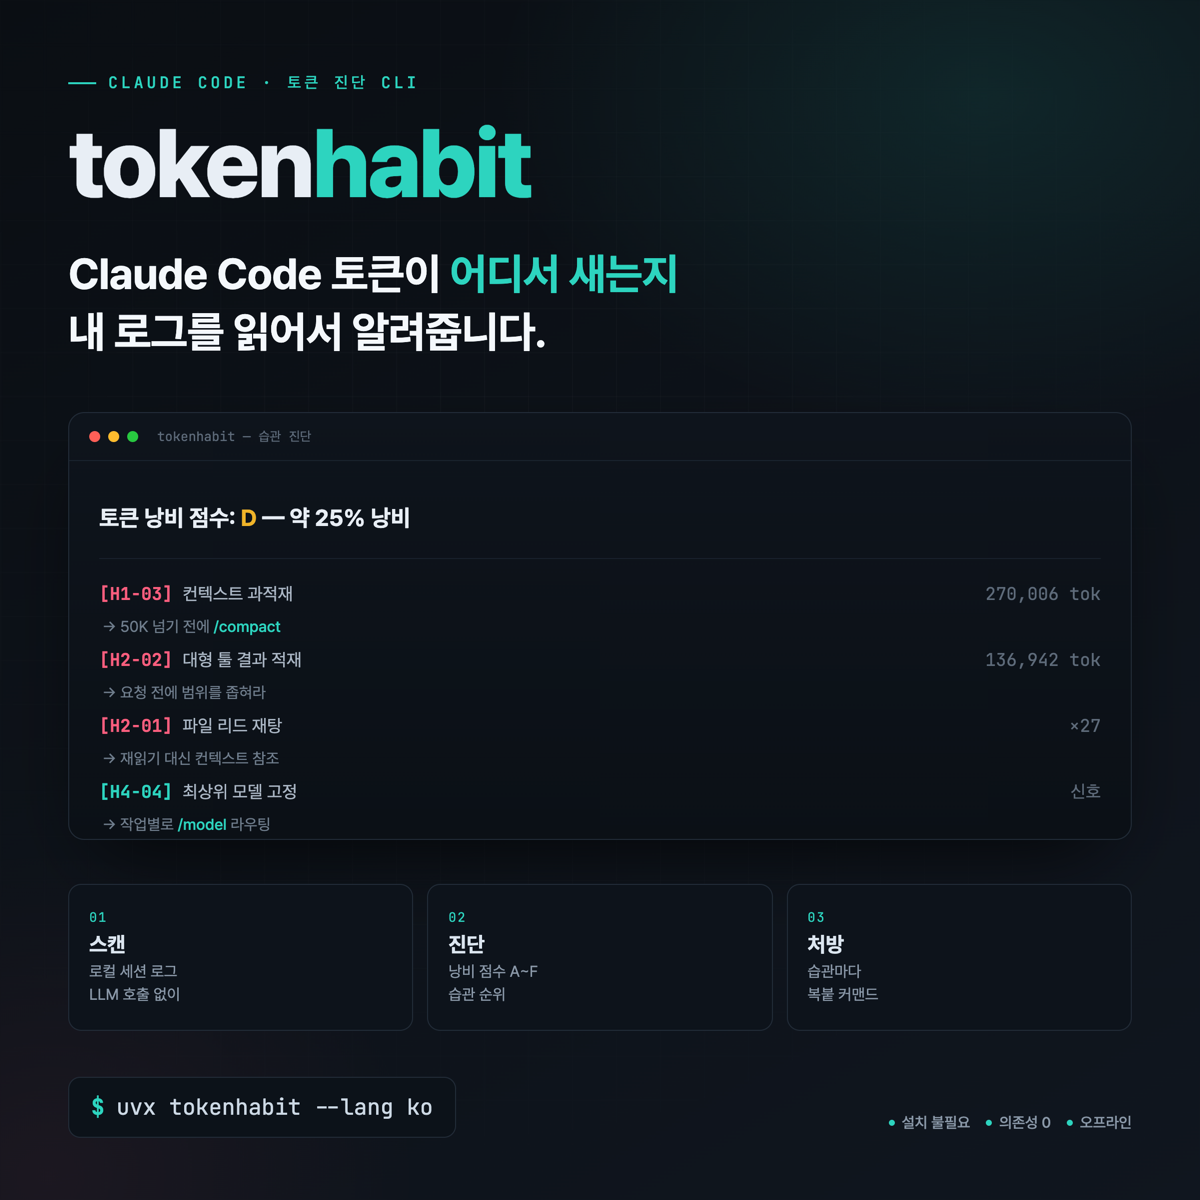
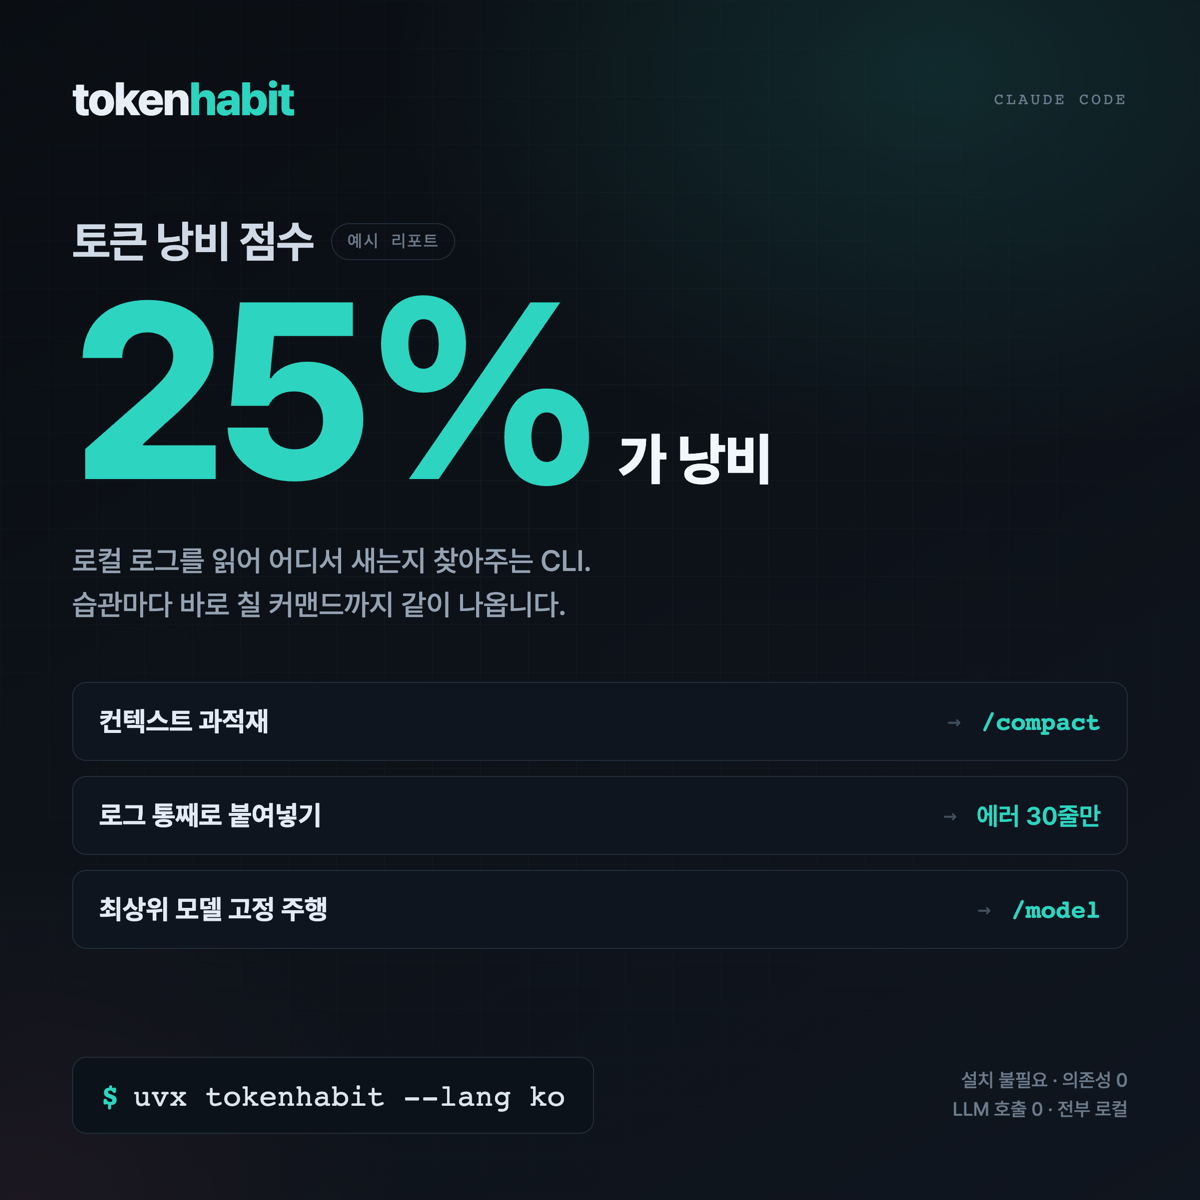
docs: 소셜 이미지 단순화 — 큰 수치 하나 + 습관 3줄
피드에서 1200px 이미지는 400~500px로 줄어든다. 이전 버전의 터미널
블록은 그 크기에서 글자가 뭉개졌고, 점수·습관 4개·fix 4개·단계 카드
3개까지 담아 1초 안에 읽히지 않았다.

한 메시지만 크게: 낭비 비율 하나 + 대표 습관 3줄 + 실행 커맨드.
정사각(피드)·와이드(GitHub 소셜 프리뷰) 디자인 통일.

수치는 '예시 리포트'로 명시 — 합성 데모 데이터에서 나온 값이라
1인칭 측정 주장으로 쓰지 않는다.

diff --git a/_workspace/07_thumbnail/social_ko_wide.html b/_workspace/07_thumbnail/social_ko_wide.html
@@ -6,107 +6,73 @@
 <link href="https://fonts.googleapis.com/css2?family=JetBrains+Mono:wght@400;500;700&display=swap" rel="stylesheet">
 <style>
   * { margin:0; padding:0; box-sizing:border-box; }
-  :root{ --cyan:#2dd4bf; --red:#fb5e7e; --amber:#f0b429; --bg0:#0a0e13; --bg1:#10161f; --bd:#222c38; --tx:#e8eef5; --mut:#8a98a8; }
+  :root{ --cyan:#2dd4bf; --red:#fb5e7e; --bg0:#0a0e13; --bg1:#10161f; --bd:#232e3b; --tx:#e8eef5; --mut:#94a2b2; }
   html,body{ width:1280px; height:640px; }
   body{
     font-family:'Pretendard',-apple-system,sans-serif;
     background:
-      radial-gradient(780px 480px at 82% 14%, rgba(45,212,191,.11), transparent 60%),
-      radial-gradient(600px 500px at 4% 96%, rgba(251,94,126,.06), transparent 55%),
+      radial-gradient(820px 520px at 76% 6%, rgba(45,212,191,.13), transparent 62%),
+      radial-gradient(620px 520px at 2% 100%, rgba(251,94,126,.06), transparent 55%),
       linear-gradient(150deg,var(--bg0),var(--bg1));
     color:var(--tx); overflow:hidden; position:relative;
   }
   .grid{ position:absolute; inset:0;
-    background-image:linear-gradient(rgba(255,255,255,.02) 1px,transparent 1px),linear-gradient(90deg,rgba(255,255,255,.02) 1px,transparent 1px);
-    background-size:40px 40px; mask-image:radial-gradient(900px 640px at 32% 42%,#000,transparent 82%); }
-  .wrap{ position:relative; height:100%; display:flex; gap:44px; padding:50px 58px 44px; }
-  .left{ flex:1.06; display:flex; flex-direction:column; }
+    background-image:linear-gradient(rgba(255,255,255,.022) 1px,transparent 1px),linear-gradient(90deg,rgba(255,255,255,.022) 1px,transparent 1px);
+    background-size:44px 44px; mask-image:radial-gradient(900px 640px at 36% 42%,#000,transparent 84%); }
+  .wrap{ position:relative; height:100%; display:flex; flex-direction:column; padding:48px 62px 44px; }
 
-  .kicker{ font-family:'JetBrains Mono',monospace; font-size:13.5px; letter-spacing:.2em; text-transform:uppercase; color:var(--cyan); font-weight:500; display:flex; align-items:center; gap:10px; }
-  .kicker::before{ content:""; width:24px; height:2px; background:var(--cyan); display:inline-block; }
-  .brand{ font-size:60px; font-weight:800; letter-spacing:-.035em; margin-top:18px; line-height:1; }
+  .top{ display:flex; align-items:center; justify-content:space-between; }
+  .brand{ font-size:38px; font-weight:800; letter-spacing:-.035em; line-height:1; }
   .brand .b{ color:var(--cyan); }
-  h1{ font-size:29px; font-weight:700; line-height:1.38; margin-top:20px; letter-spacing:-.012em; color:#f4f8fc; }
-  h1 em{ font-style:normal; color:var(--cyan); }
+  .kicker{ font-family:'JetBrains Mono',monospace; font-size:14px; letter-spacing:.16em; text-transform:uppercase; color:#6c7b8b; font-weight:500; }
 
-  .steps{ display:flex; gap:10px; margin-top:26px; }
-  .st{ flex:1; background:#0d131b; border:1px solid var(--bd); border-radius:11px; padding:13px 14px; }
-  .st .n{ font-family:'JetBrains Mono',monospace; font-size:11.5px; color:var(--cyan); letter-spacing:.1em; }
-  .st .t{ font-size:15px; font-weight:700; margin-top:5px; color:#dce6f0; }
-  .st .d{ font-size:12.5px; color:var(--mut); margin-top:3px; line-height:1.4; }
+  .mid{ margin-top:40px; display:flex; gap:52px; align-items:center; }
+  .hero{ flex:1.05; }
+  .hl{ font-size:29px; font-weight:700; letter-spacing:-.02em; color:#cfdae6; line-height:1.25; display:flex; align-items:center; gap:14px; }
+  .tagx{ font-family:'JetBrains Mono',monospace; font-size:13px; font-weight:500; letter-spacing:.08em; color:#6c7b8b; border:1px solid var(--bd); border-radius:999px; padding:5px 12px; }
+  .big{ display:flex; align-items:baseline; gap:16px; margin-top:4px; }
+  .big .n{ font-size:158px; font-weight:800; letter-spacing:-.05em; color:var(--cyan); line-height:.94; }
+  .big .t{ font-size:38px; font-weight:800; letter-spacing:-.02em; color:#f2f7fb; }
+  .lead{ font-size:20px; color:var(--mut); margin-top:22px; font-weight:500; line-height:1.5; }
 
-  .foot{ margin-top:auto; }
-  .cmd{ display:inline-flex; gap:11px; font-family:'JetBrains Mono',monospace; font-size:19px; background:#0c1219; border:1px solid var(--bd); border-radius:11px; padding:13px 19px; color:#cdd9e5; }
+  .chips{ flex:1; display:flex; flex-direction:column; gap:11px; }
+  .chip{ display:flex; align-items:center; gap:14px; background:#0e151e; border:1px solid var(--bd); border-radius:12px; padding:17px 20px; }
+  .chip .k{ font-size:19px; font-weight:700; color:#e2eaf3; }
+  .chip .ar{ font-family:'JetBrains Mono',monospace; font-size:16px; color:#41505f; margin-left:auto; }
+  .chip .v{ font-size:18px; font-weight:600; color:var(--cyan); font-family:'JetBrains Mono',monospace; }
+  .chip .v.ko{ font-family:'Pretendard',sans-serif; font-weight:600; }
+
+  .foot{ margin-top:auto; padding-top:34px; display:flex; align-items:center; justify-content:space-between; }
+  .cmd{ display:inline-flex; gap:11px; font-family:'JetBrains Mono',monospace; font-size:22px; background:#0c1219; border:1px solid var(--bd); border-radius:12px; padding:15px 21px; color:#dbe5ee; }
   .cmd .d{ color:var(--cyan); font-weight:700; }
-  .meta{ display:flex; gap:17px; margin-top:15px; font-size:13.5px; color:var(--mut); font-weight:500; }
-  .meta span{ display:flex; align-items:center; gap:6px; }
-  .dot{ width:5px; height:5px; border-radius:50%; background:var(--cyan); }
-
-  .term{ flex:1; align-self:center; background:linear-gradient(180deg,#0e141c,#0b1016); border:1px solid var(--bd); border-radius:15px; box-shadow:0 34px 74px -30px rgba(0,0,0,.78); overflow:hidden; }
-  .bar{ display:flex; gap:7px; padding:13px 16px; border-bottom:1px solid #1a232e; align-items:center; }
-  .bar i{ width:10px; height:10px; border-radius:50%; display:inline-block; }
-  .bar .t{ margin-left:10px; font-family:'JetBrains Mono',monospace; font-size:11.5px; color:#5e6b7a; }
-  .body{ padding:19px 21px; font-family:'JetBrains Mono',monospace; font-size:13px; line-height:1.85; }
-  .body .ko{ font-family:'Pretendard',sans-serif; }
-  .score{ font-size:16.5px; font-weight:700; }
-  .score .g{ color:var(--amber); }
-  .row{ color:#aab6c4; display:flex; align-items:baseline; gap:8px; }
-  .row .id{ color:var(--red); font-weight:700; }
-  .row.cy .id{ color:var(--cyan); }
-  .row .x{ color:#5e6b7a; margin-left:auto; }
-  .fix{ color:#6f7d8c; font-size:12px; padding-left:2px; }
-  .fix b{ color:var(--cyan); font-weight:500; }
-  .hr{ height:1px; background:#18212c; margin:11px 0; }
+  .meta{ font-size:15px; color:#6c7b8b; font-weight:500; text-align:right; line-height:1.5; }
 </style>
 </head>
 <body>
   <div class="grid"></div>
   <div class="wrap">
-    <div class="left">
-      <div class="kicker">Claude Code · 토큰 진단 CLI</div>
+    <div class="top">
       <div class="brand">token<span class="b">habit</span></div>
-      <h1>Claude Code 토큰이 <em>어디서 새는지</em><br>내 로그를 읽어서 알려줍니다.</h1>
+      <div class="kicker">Claude Code</div>
+    </div>
 
-      <div class="steps">
-        <div class="st">
-          <div class="n">01</div><div class="t">스캔</div>
-          <div class="d">로컬 세션 로그<br>LLM 호출 없이</div>
-        </div>
-        <div class="st">
-          <div class="n">02</div><div class="t">진단</div>
-          <div class="d">낭비 점수 A~F<br>습관 순위</div>
-        </div>
-        <div class="st">
-          <div class="n">03</div><div class="t">처방</div>
-          <div class="d">습관마다<br>복붙 커맨드</div>
-        </div>
+    <div class="mid">
+      <div class="hero">
+        <div class="hl">토큰 낭비 점수 <span class="tagx">예시 리포트</span></div>
+        <div class="big"><span class="n">25%</span><span class="t">가 낭비</span></div>
+        <div class="lead">로컬 로그를 읽어 어디서 새는지 찾아주는 CLI.<br>습관마다 바로 칠 커맨드까지 같이 나옵니다.</div>
       </div>
 
-      <div class="foot">
-        <div class="cmd"><span class="d">$</span> uvx tokenhabit --lang ko</div>
-        <div class="meta">
-          <span><i class="dot"></i>설치 불필요</span>
-          <span><i class="dot"></i>의존성 0</span>
-          <span><i class="dot"></i>오프라인</span>
-          <span><i class="dot"></i>MIT</span>
-        </div>
+      <div class="chips">
+        <div class="chip"><span class="k">컨텍스트 과적재</span><span class="ar">→</span><span class="v">/compact</span></div>
+        <div class="chip"><span class="k">로그 통째로 붙여넣기</span><span class="ar">→</span><span class="v ko">에러 30줄만</span></div>
+        <div class="chip"><span class="k">최상위 모델 고정 주행</span><span class="ar">→</span><span class="v">/model</span></div>
       </div>
     </div>
 
-    <div class="term">
-      <div class="bar"><i style="background:#ff5f57"></i><i style="background:#febc2e"></i><i style="background:#28c840"></i><span class="t">tokenhabit — 습관 진단</span></div>
-      <div class="body">
-        <div class="score ko">토큰 낭비 점수: <span class="g">D</span> — 약 25% 낭비</div>
-        <div class="hr"></div>
-        <div class="row"><span class="id">[H1-03]</span> <span class="ko">컨텍스트 과적재</span> <span class="x">270,006 tok</span></div>
-        <div class="fix ko">→ 50K 넘기 전에 <b>/compact</b></div>
-        <div class="row"><span class="id">[H2-02]</span> <span class="ko">대형 툴 결과 적재</span> <span class="x">136,942 tok</span></div>
-        <div class="fix ko">→ 요청 전에 범위를 좁혀라</div>
-        <div class="row"><span class="id">[H2-01]</span> <span class="ko">파일 리드 재탕</span> <span class="x">×27</span></div>
-        <div class="fix ko">→ 재읽기 대신 컨텍스트 참조</div>
-        <div class="row cy"><span class="id">[H4-04]</span> <span class="ko">최상위 모델 고정</span> <span class="x">신호</span></div>
-        <div class="fix ko">→ 작업별로 <b>/model</b> 라우팅</div>
-      </div>
+    <div class="foot">
+      <div class="cmd"><span class="d">$</span> uvx tokenhabit --lang ko</div>
+      <div class="meta">설치 불필요 · 의존성 0 · LLM 호출 0 · 전부 로컬</div>
     </div>
   </div>
 </body>

diff --git a/_workspace/07_thumbnail/social_ko.html b/_workspace/07_thumbnail/social_ko.html
@@ -6,94 +6,70 @@
 <link href="https://fonts.googleapis.com/css2?family=JetBrains+Mono:wght@400;500;700&display=swap" rel="stylesheet">
 <style>
   * { margin:0; padding:0; box-sizing:border-box; }
-  :root{ --cyan:#2dd4bf; --red:#fb5e7e; --amber:#f0b429; --bg0:#0a0e13; --bg1:#10161f; --bd:#222c38; --tx:#e8eef5; --mut:#8a98a8; }
+  :root{ --cyan:#2dd4bf; --red:#fb5e7e; --bg0:#0a0e13; --bg1:#10161f; --bd:#232e3b; --tx:#e8eef5; --mut:#94a2b2; }
   html,body{ width:1200px; height:1200px; }
   body{
     font-family:'Pretendard',-apple-system,sans-serif;
     background:
-      radial-gradient(820px 560px at 82% 8%, rgba(45,212,191,.11), transparent 60%),
-      radial-gradient(680px 600px at 4% 98%, rgba(251,94,126,.06), transparent 55%),
+      radial-gradient(880px 620px at 78% 6%, rgba(45,212,191,.13), transparent 62%),
+      radial-gradient(700px 620px at 2% 100%, rgba(251,94,126,.06), transparent 55%),
       linear-gradient(150deg,var(--bg0),var(--bg1));
     color:var(--tx); overflow:hidden; position:relative;
   }
   .grid{ position:absolute; inset:0;
-    background-image:linear-gradient(rgba(255,255,255,.02) 1px,transparent 1px),linear-gradient(90deg,rgba(255,255,255,.02) 1px,transparent 1px);
-    background-size:44px 44px; mask-image:radial-gradient(900px 900px at 40% 38%,#000,transparent 84%); }
-  .wrap{ position:relative; height:100%; display:flex; flex-direction:column; padding:72px 68px 62px; }
+    background-image:linear-gradient(rgba(255,255,255,.022) 1px,transparent 1px),linear-gradient(90deg,rgba(255,255,255,.022) 1px,transparent 1px);
+    background-size:48px 48px; mask-image:radial-gradient(900px 900px at 42% 40%,#000,transparent 84%); }
+  .wrap{ position:relative; height:100%; display:flex; flex-direction:column; padding:76px 72px 66px; }
 
-  .kicker{ font-family:'JetBrains Mono',monospace; font-size:16px; letter-spacing:.2em; text-transform:uppercase; color:var(--cyan); font-weight:500; display:flex; align-items:center; gap:12px; }
-  .kicker::before{ content:""; width:28px; height:2px; background:var(--cyan); display:inline-block; }
-  .brand{ font-size:96px; font-weight:800; letter-spacing:-.035em; margin-top:22px; line-height:1; }
+  .top{ display:flex; align-items:center; justify-content:space-between; }
+  .brand{ font-size:46px; font-weight:800; letter-spacing:-.035em; line-height:1; }
   .brand .b{ color:var(--cyan); }
-  h1{ font-size:43px; font-weight:700; line-height:1.36; margin-top:34px; letter-spacing:-.014em; color:#f4f8fc; }
-  h1 em{ font-style:normal; color:var(--cyan); }
+  .kicker{ font-family:'JetBrains Mono',monospace; font-size:16px; letter-spacing:.16em; text-transform:uppercase; color:#6c7b8b; font-weight:500; }
 
-  .term{ margin-top:50px; background:linear-gradient(180deg,#0e141c,#0b1016); border:1px solid var(--bd); border-radius:16px; box-shadow:0 36px 80px -32px rgba(0,0,0,.78); overflow:hidden; }
-  .bar{ display:flex; gap:8px; padding:15px 20px; border-bottom:1px solid #1a232e; align-items:center; }
-  .bar i{ width:11px; height:11px; border-radius:50%; display:inline-block; }
-  .bar .t{ margin-left:11px; font-family:'JetBrains Mono',monospace; font-size:13px; color:#5e6b7a; }
-  .body{ padding:34px 30px; font-family:'JetBrains Mono',monospace; font-size:17.5px; line-height:2.0; }
-  .body .ko{ font-family:'Pretendard',sans-serif; }
-  .score{ font-size:23px; font-weight:700; }
-  .score .g{ color:var(--amber); }
-  .row{ color:#aab6c4; display:flex; align-items:baseline; gap:10px; }
-  .row .id{ color:var(--red); font-weight:700; }
-  .row.cy .id{ color:var(--cyan); }
-  .row .x{ color:#5e6b7a; margin-left:auto; }
-  .fix{ color:#6f7d8c; font-size:15.5px; padding-left:3px; }
-  .fix b{ color:var(--cyan); font-weight:500; }
-  .hr{ height:1px; background:#18212c; margin:17px 0; }
+  .hero{ margin-top:92px; }
+  .hl{ font-size:44px; font-weight:700; letter-spacing:-.02em; color:#cfdae6; line-height:1.25; display:flex; align-items:center; gap:18px; }
+  .tagx{ font-family:'JetBrains Mono',monospace; font-size:17px; font-weight:500; letter-spacing:.08em; color:#6c7b8b; border:1px solid var(--bd); border-radius:999px; padding:7px 15px; }
+  .big{ display:flex; align-items:baseline; gap:22px; margin-top:6px; }
+  .big .n{ font-size:250px; font-weight:800; letter-spacing:-.05em; color:var(--cyan); line-height:.92; }
+  .big .t{ font-size:56px; font-weight:800; letter-spacing:-.02em; color:#f2f7fb; }
+  .lead{ font-size:29px; color:var(--mut); margin-top:34px; font-weight:500; line-height:1.5; }
 
-  .steps{ display:flex; gap:14px; margin-top:44px; }
-  .st{ flex:1; background:#0d131b; border:1px solid var(--bd); border-radius:13px; padding:24px 20px; }
-  .st .n{ font-family:'JetBrains Mono',monospace; font-size:13px; color:var(--cyan); letter-spacing:.1em; }
-  .st .t{ font-size:21px; font-weight:700; margin-top:6px; color:#dce6f0; }
-  .st .d{ font-size:15.5px; color:var(--mut); margin-top:4px; line-height:1.45; }
+  .chips{ margin-top:56px; display:flex; flex-direction:column; gap:15px; }
+  .chip{ display:flex; align-items:center; gap:20px; background:#0e151e; border:1px solid var(--bd); border-radius:14px; padding:22px 26px; }
+  .chip .k{ font-size:27px; font-weight:700; color:#e2eaf3; }
+  .chip .ar{ font-family:'JetBrains Mono',monospace; font-size:22px; color:#41505f; margin-left:auto; }
+  .chip .v{ font-size:25px; font-weight:600; color:var(--cyan); font-family:'JetBrains Mono',monospace; }
+  .chip .v.ko{ font-family:'Pretendard',sans-serif; font-weight:600; }
 
-  .foot{ margin-top:auto; padding-top:46px; display:flex; align-items:flex-end; justify-content:space-between; }
-  .cmd{ display:inline-flex; gap:12px; font-family:'JetBrains Mono',monospace; font-size:22px; background:#0c1219; border:1px solid var(--bd); border-radius:12px; padding:15px 22px; color:#cdd9e5; }
+  .foot{ margin-top:auto; padding-top:52px; display:flex; align-items:center; justify-content:space-between; }
+  .cmd{ display:inline-flex; gap:14px; font-family:'JetBrains Mono',monospace; font-size:30px; background:#0c1219; border:1px solid var(--bd); border-radius:14px; padding:20px 28px; color:#dbe5ee; }
   .cmd .d{ color:var(--cyan); font-weight:700; }
-  .meta{ display:flex; gap:16px; font-size:15px; color:var(--mut); font-weight:500; padding-bottom:6px; }
-  .meta span{ display:flex; align-items:center; gap:7px; }
-  .dot{ width:6px; height:6px; border-radius:50%; background:var(--cyan); }
+  .meta{ font-size:19px; color:#6c7b8b; font-weight:500; text-align:right; line-height:1.5; }
 </style>
 </head>
 <body>
   <div class="grid"></div>
   <div class="wrap">
-    <div class="kicker">Claude Code · 토큰 진단 CLI</div>
-    <div class="brand">token<span class="b">habit</span></div>
-    <h1>Claude Code 토큰이 <em>어디서 새는지</em><br>내 로그를 읽어서 알려줍니다.</h1>
-
-    <div class="term">
-      <div class="bar"><i style="background:#ff5f57"></i><i style="background:#febc2e"></i><i style="background:#28c840"></i><span class="t">tokenhabit — 습관 진단</span></div>
-      <div class="body">
-        <div class="score ko">토큰 낭비 점수: <span class="g">D</span> — 약 25% 낭비</div>
-        <div class="hr"></div>
-        <div class="row"><span class="id">[H1-03]</span> <span class="ko">컨텍스트 과적재</span> <span class="x">270,006 tok</span></div>
-        <div class="fix ko">→ 50K 넘기 전에 <b>/compact</b></div>
-        <div class="row"><span class="id">[H2-02]</span> <span class="ko">대형 툴 결과 적재</span> <span class="x">136,942 tok</span></div>
-        <div class="fix ko">→ 요청 전에 범위를 좁혀라</div>
-        <div class="row"><span class="id">[H2-01]</span> <span class="ko">파일 리드 재탕</span> <span class="x">×27</span></div>
-        <div class="fix ko">→ 재읽기 대신 컨텍스트 참조</div>
-        <div class="row cy"><span class="id">[H4-04]</span> <span class="ko">최상위 모델 고정</span> <span class="x">신호</span></div>
-        <div class="fix ko">→ 작업별로 <b>/model</b> 라우팅</div>
-      </div>
+    <div class="top">
+      <div class="brand">token<span class="b">habit</span></div>
+      <div class="kicker">Claude Code</div>
     </div>
 
-    <div class="steps">
-      <div class="st"><div class="n">01</div><div class="t">스캔</div><div class="d">로컬 세션 로그<br>LLM 호출 없이</div></div>
-      <div class="st"><div class="n">02</div><div class="t">진단</div><div class="d">낭비 점수 A~F<br>습관 순위</div></div>
-      <div class="st"><div class="n">03</div><div class="t">처방</div><div class="d">습관마다<br>복붙 커맨드</div></div>
+    <div class="hero">
+      <div class="hl">토큰 낭비 점수 <span class="tagx">예시 리포트</span></div>
+      <div class="big"><span class="n">25%</span><span class="t">가 낭비</span></div>
+      <div class="lead">로컬 로그를 읽어 어디서 새는지 찾아주는 CLI.<br>습관마다 바로 칠 커맨드까지 같이 나옵니다.</div>
+    </div>
+
+    <div class="chips">
+      <div class="chip"><span class="k">컨텍스트 과적재</span><span class="ar">→</span><span class="v">/compact</span></div>
+      <div class="chip"><span class="k">로그 통째로 붙여넣기</span><span class="ar">→</span><span class="v ko">에러 30줄만</span></div>
+      <div class="chip"><span class="k">최상위 모델 고정 주행</span><span class="ar">→</span><span class="v">/model</span></div>
     </div>
 
     <div class="foot">
       <div class="cmd"><span class="d">$</span> uvx tokenhabit --lang ko</div>
-      <div class="meta">
-        <span><i class="dot"></i>설치 불필요</span>
-        <span><i class="dot"></i>의존성 0</span>
-        <span><i class="dot"></i>오프라인</span>
-      </div>
+      <div class="meta">설치 불필요 · 의존성 0<br>LLM 호출 0 · 전부 로컬</div>
     </div>
   </div>
 </body>
